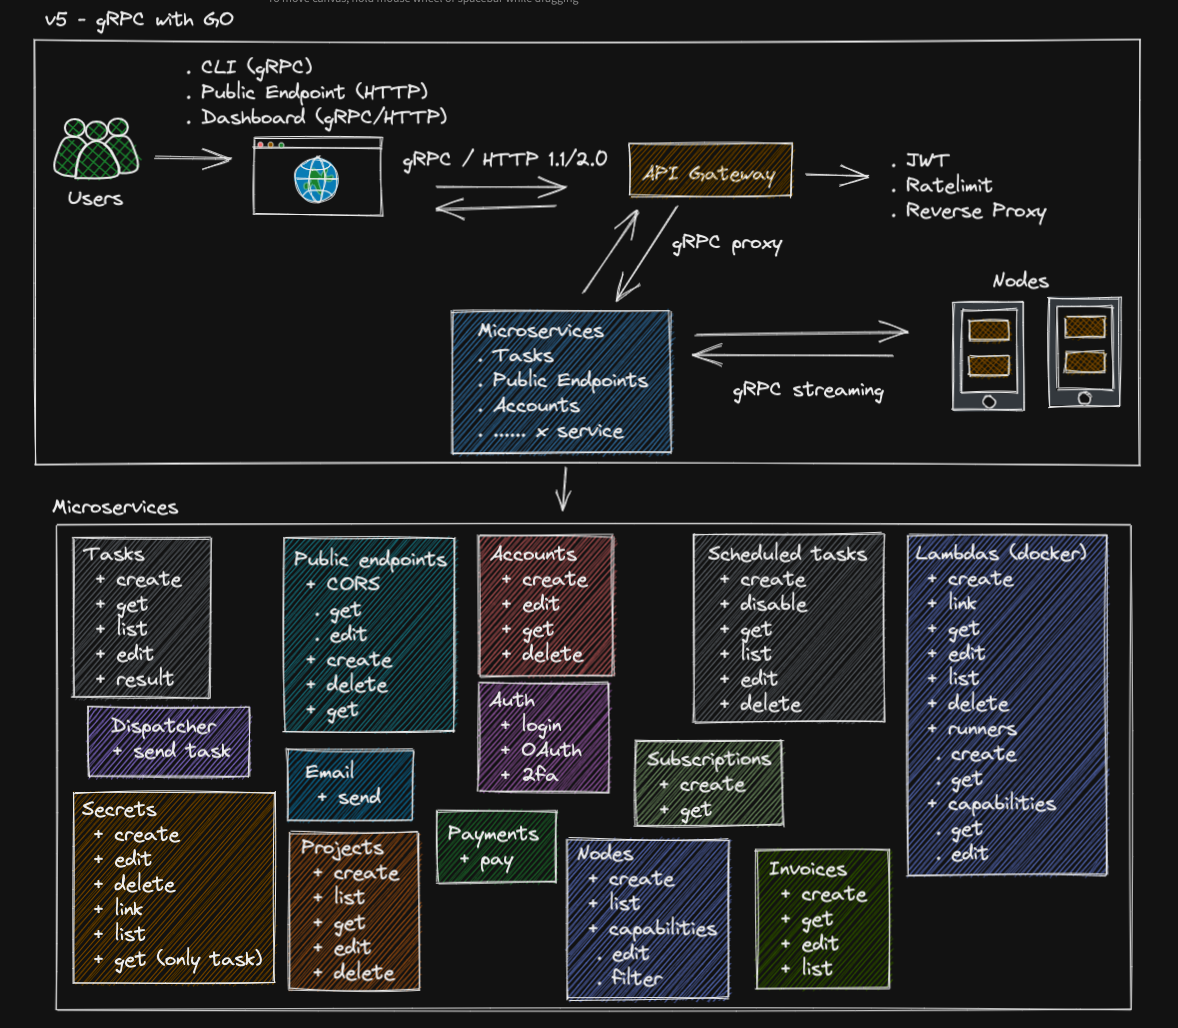
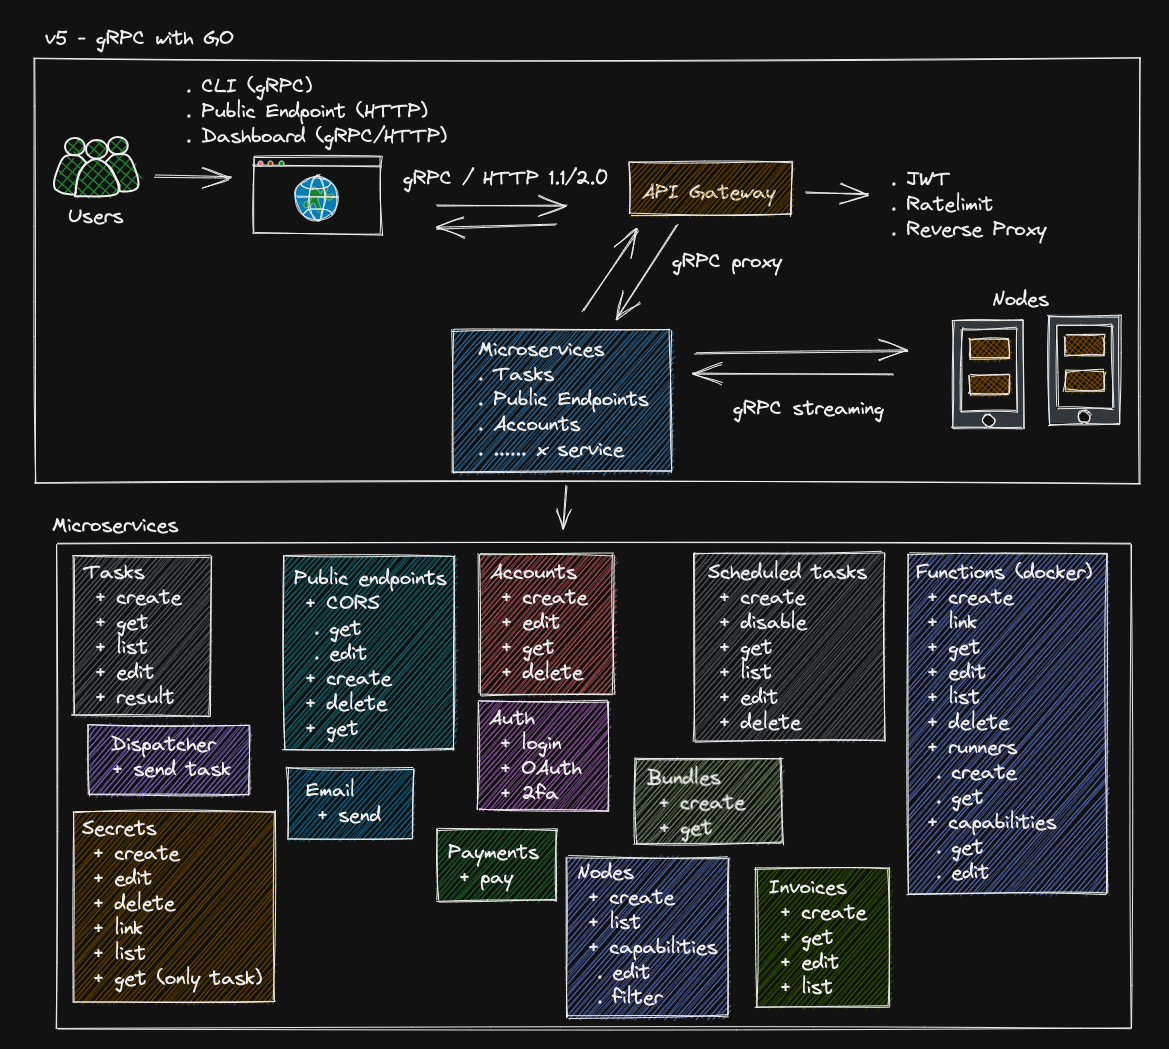
Updating image and adding more error information.

diff --git a/docs/guide/errors.md b/docs/guide/errors.md
@@ -61,3 +61,23 @@ When you see this message it means that you have used up all of the calls you ha
 Consider the number of calls you are making and the best plan that suits your needs. See [here](https://www.greencloudcomouting.io#pricing) for more information on our pricing. 
 
 Also it is worth considering looking at the settings page in the Account section of the dashboard. We can handle automatic renew and email alerst when quota is running low.
+
+***
+### NEEDS_UPGRADE
+
+We work hard to ensure Green Cloud is running on the latest versions of software. As such, we perform a lot of checks and you will see this message when there has been an update to the CLI tool.
+
+<cliWindow>
+
+```text {1,9}
+$ gccli fx list
+🔑 Obtaining accessToken...
+
+😐 Ohh! → NEEDS_UPGRADE
+👉 Use 'gccli update'
+
+```
+
+If you are using Linux or OSX simply run the 'update' command as instructed. If you are on a windows machine you will need to download the latest version of the CLI from [here](https://dl.greencloudcomputing.io/gccli)
+
+</cliWindow>

diff --git a/docs/intro.md b/docs/intro.md
@@ -5,10 +5,6 @@ slug: /
 
 # 👋 Welcome!
 
-:::caution Needs revision
-Needs new illustration without subscription and project
-:::
-
 It is great to have you with us and we welcome you to the documentation pages for Green Cloud. Here you will be able to find detailed information about Green Cloud software tools we are creating. Please use this web site as a reference source of all things Green Cloud!
 
 If something doesn't quite look right - OR - its missing - please email us here -: hello@greencloudcomputing.io
